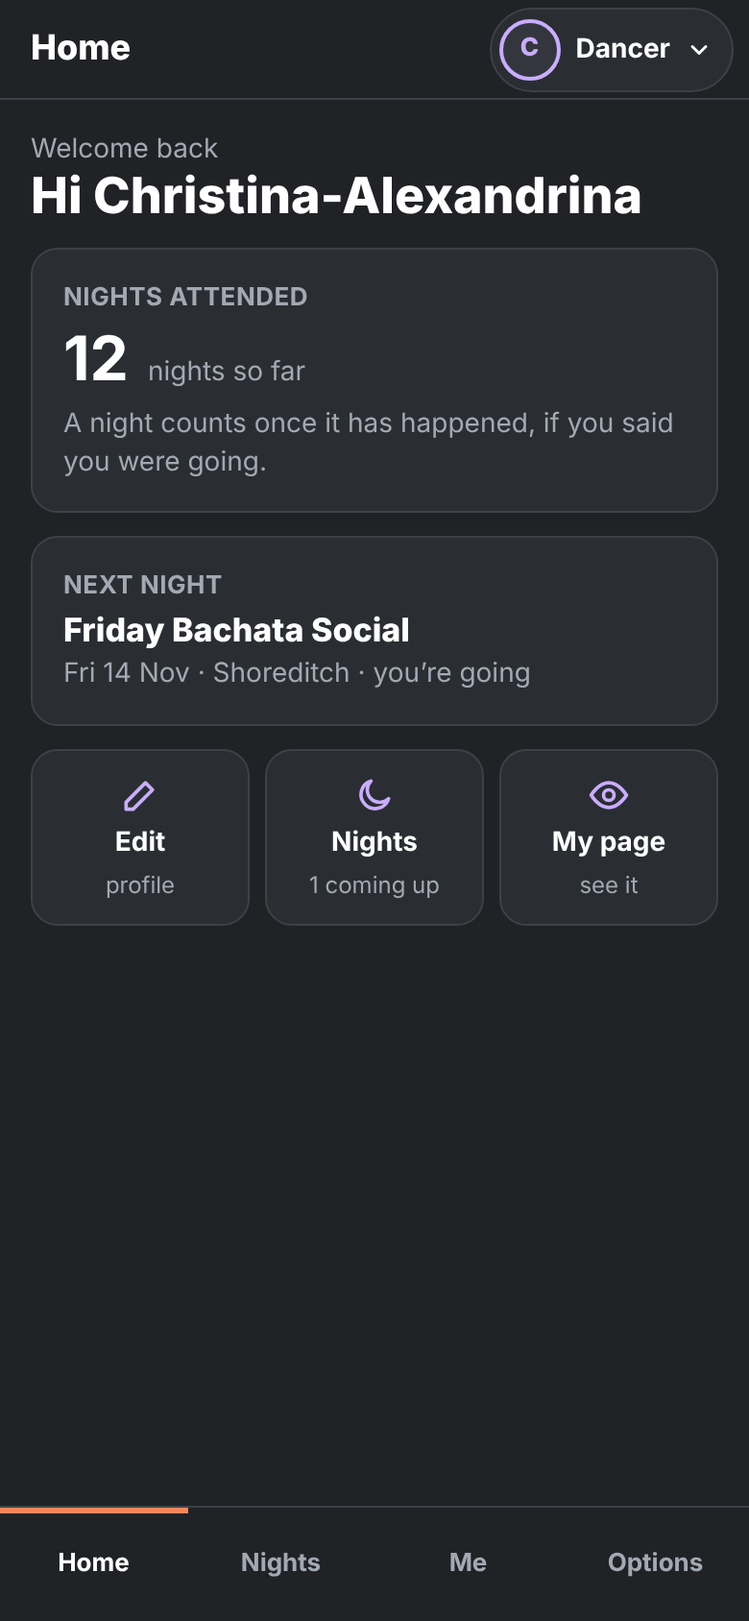
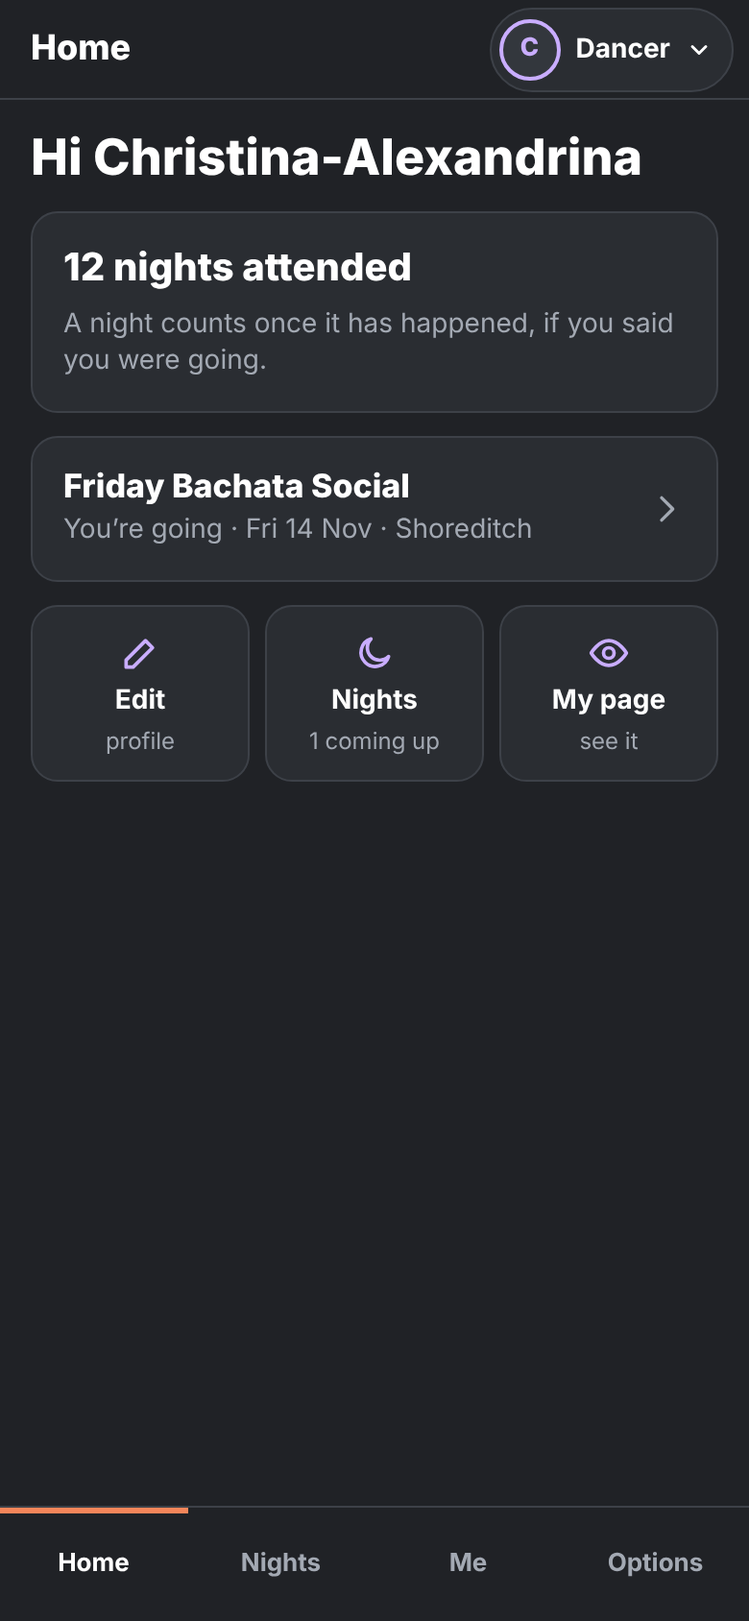
docs(dancer-dash): option B critique fixes 1-8, #account frame, re-shot 9 frames (admin #1545) [skip preview]
Claude-Session: https://claude.ai/code/session_01WoGkiCmT2uffcLhtXA41Yb

diff --git a/docs/design/dancer-dashboard/option-b-polished.html b/docs/design/dancer-dashboard/option-b-polished.html
@@ -1,7 +1,7 @@
 <!doctype html><html lang="en"><head><meta charset="utf-8"><meta name="viewport" content="width=device-width,initial-scale=1"><title>Dancer dashboard B polished</title>
-<!-- Design only (admin #1537). Tokens = src/modules/dancer-app/theme/dancer.css. Open with #new #partial #saveOff #complete #completeEmpty #unclaimed #switch #addProfile for one 390x844 frame. ASCII + entities only. -->
+<!-- Design only (admin #1537, critique fixes admin #1545). Tokens = src/modules/dancer-app/theme/dancer.css. Open with #new #partial #saveOff #complete #completeEmpty #unclaimed #switch #addProfile #account for one 390x844 frame. ASCII + entities only. No text characters as icons: every icon is an inline SVG on the 2px stroke set. Dashed border = disabled or placeholder ONLY. -->
 <style>
-:root{--bg:#202226;--sf:#2A2D32;--sf2:#33373D;--tx:#FFFFFF;--mu:#A3A9B3;--ac:#F5865A;--onac:#1D0A03;--bd:#3D4148;--pl:#C9ADFF;--ok:#7BE0A0;--onok:#06210F;--warn:#FFCF66;
+:root{--bg:#202226;--sf:#2A2D32;--sf2:#33373D;--tx:#FFFFFF;--mu:#A3A9B3;--ac:#F5865A;--onac:#1D0A03;--bd:#3D4148;--pl:#C9ADFF;--ok:#7BE0A0;--warn:#FFCF66;--teal:#4FE0CF;
 --r:14px;--tap:44px;--hd:52px;--tabs:60px;--gap:12px;--pad:16px}
 *{box-sizing:border-box}html,body{margin:0;background:#111;color:var(--tx);font:16px/1.4 system-ui,-apple-system,"Segoe UI",Roboto,sans-serif}
 body{display:flex;flex-wrap:wrap;gap:24px;padding:24px;justify-content:center}
@@ -10,33 +10,43 @@ body.one{padding:0;gap:0;display:block;background:var(--bg)}
 .cap{width:390px;text-align:center;color:#C8CCD2;font-size:13px;margin-bottom:6px}body.one .cap{display:none}
 .phone{width:390px;height:844px;background:var(--bg);position:relative;overflow:hidden;display:flex;flex-direction:column}
 a,button{font:inherit;color:inherit}
+svg{fill:none;stroke:currentColor;stroke-width:2;stroke-linecap:round;stroke-linejoin:round}
 /* header */
-.hd{height:var(--hd);flex:none;display:flex;align-items:center;gap:8px;padding:0 8px 0 var(--pad);border-bottom:1px solid var(--bd)}
+.hd{height:var(--hd);flex:none;display:flex;align-items:center;gap:4px;padding:0 8px 0 var(--pad);border-bottom:1px solid var(--bd)}
+.hd.bk{padding-left:4px}
 .hd h1{margin:0;font-size:18px;font-weight:800;flex:1}
+.ib{display:flex;align-items:center;justify-content:center;width:var(--tap);height:var(--tap);flex:none;background:none;border:0;border-radius:22px;text-decoration:none;cursor:pointer;padding:0}
+.ib svg{width:24px;height:24px}
 .me{display:flex;align-items:center;gap:8px;min-height:var(--tap);min-width:var(--tap);padding:0 10px 0 4px;border-radius:22px;border:1px solid var(--bd);background:var(--sf);text-decoration:none;font-size:14px;font-weight:700;cursor:pointer}
 .me.solo{padding:0 4px;border-color:transparent;background:transparent;justify-content:center}
-.me .pic{width:32px;height:32px;border-radius:50%;background:var(--sf2);border:2px solid var(--pl);color:var(--pl);display:flex;align-items:center;justify-content:center;font-size:13px;font-weight:800;flex:none}
-.me svg{width:14px;height:14px;flex:none}
+.pic{width:32px;height:32px;border-radius:50%;background:var(--sf2);border:2px solid var(--pl);color:var(--pl);display:flex;align-items:center;justify-content:center;font-size:13px;font-weight:800;flex:none}
+.pic svg{width:60%;height:60%}
+.me>svg{width:14px;height:14px;flex:none;stroke-width:2.5}
 /* body */
 .sc{flex:1;overflow:hidden;padding:var(--pad);display:grid;gap:var(--gap);align-content:start}
-.hi p{margin:0}.hi .k{font-size:14px;color:var(--mu)}.hi .n{font-size:26px;font-weight:800;line-height:1.15;overflow-wrap:anywhere}
-.card{background:var(--sf);border:1px solid var(--bd);border-radius:var(--r);padding:var(--pad)}
-.card .k{margin:0;font-size:13px;font-weight:700;color:var(--mu);letter-spacing:.02em}
-.card h2{margin:4px 0 0;font-size:20px;font-weight:800;line-height:1.2}
+.hi{margin:0;font-size:26px;font-weight:800;line-height:1.15;overflow-wrap:anywhere}
+.card{background:var(--sf);border:1px solid var(--bd);border-radius:var(--r);padding:var(--pad);display:block;text-decoration:none}
+.card h2{margin:0;font-size:20px;font-weight:800;line-height:1.2}
 .why{margin:8px 0 0;font-size:14px;color:var(--mu)}
 .seg{display:grid;grid-template-columns:repeat(4,1fr);gap:4px;margin:12px 0 0}
 .seg i{height:6px;border-radius:3px;background:var(--sf2)}.seg i.d{background:var(--ok)}.seg i.n{background:var(--ac)}
+.stepcap{margin:6px 0 0;font-size:13px;color:var(--mu)}
 .btn{display:flex;align-items:center;justify-content:center;min-height:48px;margin-top:12px;border-radius:12px;font-weight:800;font-size:16px;background:var(--ac);color:var(--onac);border:0;width:100%;text-decoration:none;cursor:pointer}
 .btn.g{background:transparent;color:var(--tx);border:1px solid var(--bd);margin-top:8px}
+.btn.sm{width:auto;min-height:44px;margin:0;padding:0 14px;font-size:15px}
 .btn[disabled]{background:var(--sf2);color:var(--mu);border:1px dashed var(--bd);cursor:not-allowed}
 .reason{margin:6px 0 0;font-size:13px;color:var(--mu)}
+.tl{display:flex;align-items:center;justify-content:center;min-height:var(--tap);margin-top:4px;font-size:15px;font-weight:700;text-decoration:underline;text-underline-offset:3px}
 .state{display:inline-flex;align-items:center;gap:6px;font-size:12px;font-weight:800;padding:4px 10px;border-radius:99px;background:#3A3220;color:var(--warn)}
-.count{display:flex;align-items:baseline;gap:10px;margin:6px 0 0}.count b{font-size:32px;line-height:1}.count span{font-size:14px;color:var(--mu)}
+/* next-night link card */
+.card.go{display:flex;align-items:center;gap:8px;min-height:var(--tap)}
+.card.go .t{flex:1;min-width:0}.card.go h2{font-size:17px}.card.go .why{margin-top:2px}
+.card.go>svg{width:20px;height:20px;flex:none;color:var(--mu)}
 /* three tiles (density rule: 3 columns) */
 .tiles{display:grid;grid-template-columns:repeat(3,1fr);gap:8px}
 .tile{background:var(--sf);border:1px solid var(--bd);border-radius:var(--r);padding:12px 6px;min-height:92px;text-align:center;display:grid;gap:4px;justify-items:center;align-content:center;font-size:14px;font-weight:700;text-decoration:none}
 .tile svg{width:22px;height:22px;color:var(--pl)}.tile small{font-size:12px;color:var(--mu);font-weight:400;line-height:1.25}
-.note{font-size:13px;color:var(--mu);padding:10px 12px;border:1px dashed var(--bd);border-radius:12px;margin:0}
+.note{font-size:13px;color:var(--mu);margin:0}
 .who{display:flex;gap:12px;align-items:center;margin-top:12px}
 .av{width:52px;height:52px;border-radius:50%;background:var(--sf2);border:2px dashed var(--mu);color:var(--mu);flex:none;display:flex;align-items:center;justify-content:center;font-weight:800;font-size:18px}
 .who p{margin:0}.who .b{font-weight:800}.who .s{font-size:14px;color:var(--mu)}
@@ -44,50 +54,57 @@ a,button{font:inherit;color:inherit}
 .tabs{height:var(--tabs);flex:none;display:grid;grid-template-columns:repeat(4,1fr);border-top:1px solid var(--bd);background:var(--bg)}
 .tabs a{display:flex;align-items:center;justify-content:center;font-size:13px;font-weight:700;color:var(--mu);min-height:var(--tap);text-decoration:none}
 .tabs a[aria-current]{color:var(--tx);box-shadow:inset 0 3px 0 var(--ac)}
-/* sheet */
-.scrim{position:absolute;inset:0;background:rgba(0,0,0,.6);display:flex;flex-direction:column;justify-content:flex-end}
-.sheet{background:var(--bg);border-top:1px solid var(--bd);border-radius:16px 16px 0 0;padding:8px 0 20px}
+/* sheet: the shipped ProfileSwitcher dancer surface (--da-surface, border-top --da-border) */
+.scrim{position:absolute;inset:0;background:rgba(0,0,0,.5);display:flex;flex-direction:column;justify-content:flex-end}
+.sheet{background:var(--sf);border-top:1px solid var(--bd);border-radius:16px 16px 0 0;padding:8px 0 12px}
 .sh{display:flex;align-items:center;justify-content:space-between;padding:0 8px 0 var(--pad)}
+.sh.bk{justify-content:flex-start;gap:4px;padding:0 var(--pad) 0 4px}
 .sh h2{margin:0;font-size:16px;font-weight:800}
 .x{min-height:var(--tap);min-width:var(--tap);background:none;border:0;font-weight:700;font-size:15px;cursor:pointer;padding:0 8px}
 .grp{list-style:none;margin:0;padding:0;border-bottom:1px solid var(--bd)}
-.side{display:flex;align-items:center;gap:12px;min-height:56px;padding:8px var(--pad);text-decoration:none;font-size:16px}
-.side .pic{width:36px;height:36px;border-radius:50%;background:var(--sf2);border:2px solid var(--pl);color:var(--pl);display:flex;align-items:center;justify-content:center;font-weight:800;font-size:14px;flex:none}
-.side .pic.sq{border-radius:10px;border-color:#4FE0CF;color:#4FE0CF}
+.side{display:flex;align-items:center;gap:12px;min-height:56px;padding:8px var(--pad);text-decoration:none;font-size:15px}
+.side .pic{width:36px;height:36px;font-size:14px}
+.side .pic.sq{border-radius:10px;border-color:var(--teal);color:var(--teal)}
 .side .pic.dj{border-color:var(--warn);color:var(--warn)}
 .side .t{flex:1;min-width:0}.side .t b{display:block;white-space:nowrap;overflow:hidden;text-overflow:ellipsis;font-weight:700}
-.side .t small{display:block;font-size:13px;color:var(--mu)}
-.side[aria-current]{background:var(--sf)}
-.side svg{width:20px;height:20px;flex:none}
-.side.add{color:var(--tx);font-weight:700}.side.add .pic{border-style:dashed;border-color:var(--mu);color:var(--tx);background:transparent}
+.side .t small{display:flex;align-items:center;gap:6px;font-size:13px;color:var(--mu)}
+.side>svg{width:20px;height:20px;flex:none}
+.side .ico{width:36px;height:36px;flex:none;display:flex;align-items:center;justify-content:center;color:var(--mu)}
+.side .ico svg{width:22px;height:22px}
+.dot{display:inline-block;width:10px;height:10px;border-radius:50%;border:2px solid currentColor;background:linear-gradient(90deg,currentColor 50%,transparent 50%);flex:none}
 .side.plain{font-weight:700}
 /* edit detail */
-.fld{display:grid;gap:6px;margin-top:12px}.fld label{font-size:14px;font-weight:700}.fld span{display:flex;align-items:center;min-height:48px;padding:0 12px;border-radius:10px;background:var(--sf2);border:1px solid var(--bd);font-size:16px}
+.fld{display:grid;gap:6px;margin-top:12px}.fld label{font-size:14px;font-weight:700}.fld>span{display:flex;align-items:center;min-height:48px;padding:0 12px;border-radius:10px;background:var(--sf2);border:1px solid var(--bd);font-size:16px}
+.photo{display:flex;align-items:center;gap:12px;margin-top:6px}.photo .av{width:48px;height:48px}.photo .av svg{width:26px;height:26px}.photo p{flex:1;margin:0;font-size:15px;color:var(--mu)}
 </style></head><body>
 <svg width="0" height="0" style="position:absolute" aria-hidden="true">
-<symbol id="i-down" viewBox="0 0 24 24"><path d="M6 9l6 6 6-6" fill="none" stroke="currentColor" stroke-width="2.5" stroke-linecap="round" stroke-linejoin="round"/></symbol>
-<symbol id="i-check" viewBox="0 0 24 24"><path d="M5 12l5 5 9-10" fill="none" stroke="currentColor" stroke-width="2.5" stroke-linecap="round" stroke-linejoin="round"/></symbol>
-<symbol id="i-edit" viewBox="0 0 24 24"><path d="M4 20h4L19 9l-4-4L4 16v4z" fill="none" stroke="currentColor" stroke-width="2" stroke-linejoin="round"/></symbol>
-<symbol id="i-moon" viewBox="0 0 24 24"><path d="M20 14A8 8 0 1 1 10 4a6 6 0 0 0 10 10z" fill="none" stroke="currentColor" stroke-width="2" stroke-linejoin="round"/></symbol>
-<symbol id="i-eye" viewBox="0 0 24 24"><path d="M2 12s4-7 10-7 10 7 10 7-4 7-10 7S2 12 2 12z" fill="none" stroke="currentColor" stroke-width="2"/><circle cx="12" cy="12" r="3" fill="none" stroke="currentColor" stroke-width="2"/></symbol>
-<symbol id="i-msg" viewBox="0 0 24 24"><path d="M4 5h16v11H9l-5 4V5z" fill="none" stroke="currentColor" stroke-width="2" stroke-linejoin="round"/></symbol>
-<symbol id="i-gear" viewBox="0 0 24 24"><circle cx="12" cy="12" r="3.5" fill="none" stroke="currentColor" stroke-width="2"/><path d="M12 2v3M12 19v3M2 12h3M19 12h3M5 5l2 2M17 17l2 2M5 19l2-2M17 7l2-2" stroke="currentColor" stroke-width="2" stroke-linecap="round"/></symbol>
+<symbol id="i-down" viewBox="0 0 24 24"><path d="M6 9l6 6 6-6"/></symbol>
+<symbol id="i-back" viewBox="0 0 24 24"><path d="M15 5l-7 7 7 7"/></symbol>
+<symbol id="i-fwd" viewBox="0 0 24 24"><path d="M9 5l7 7-7 7"/></symbol>
+<symbol id="i-check" viewBox="0 0 24 24"><path d="M5 12l5 5 9-10"/></symbol>
+<symbol id="i-plus" viewBox="0 0 24 24"><path d="M12 5v14M5 12h14"/></symbol>
+<symbol id="i-person" viewBox="0 0 24 24"><circle cx="12" cy="8" r="4"/><path d="M4 21c0-4.4 3.6-7 8-7s8 2.6 8 7"/></symbol>
+<symbol id="i-phones" viewBox="0 0 24 24"><path d="M4 15v-3a8 8 0 0 1 16 0v3"/><rect x="3" y="14" width="4" height="7" rx="1.5"/><rect x="17" y="14" width="4" height="7" rx="1.5"/></symbol>
+<symbol id="i-edit" viewBox="0 0 24 24"><path d="M4 20h4L19 9l-4-4L4 16v4z"/></symbol>
+<symbol id="i-moon" viewBox="0 0 24 24"><path d="M20 14A8 8 0 1 1 10 4a6 6 0 0 0 10 10z"/></symbol>
+<symbol id="i-eye" viewBox="0 0 24 24"><path d="M2 12s4-7 10-7 10 7 10 7-4 7-10 7S2 12 2 12z"/><circle cx="12" cy="12" r="3"/></symbol>
 </svg>
 
-<!-- D1 new account: one side only, so the picture button opens "Your account" (no switch pill) -->
+<!-- D1 new account: one side only, so the picture opens "Your account" (#account). No name yet: person icon in the plum ring. -->
 <section class="shape" id="new"><div class="cap">D1 New account &middot; strength 0 &middot; next_step first_name</div><div class="phone">
-<header class="hd"><h1>Home</h1><a class="me solo" href="#account" aria-label="Your account"><span class="pic">?</span></a></header>
+<header class="hd"><h1>Home</h1><a class="me solo" href="#account" aria-label="Your account"><span class="pic"><svg><use href="#i-person"/></svg></span></a></header>
 <main class="sc">
-<div class="hi"><p class="k">Welcome</p><p class="n">Let&rsquo;s set up your profile</p></div>
-<div class="card"><p class="k">STEP 1 OF 4</p><h2>What should we call you?</h2>
-<div class="seg" aria-label="0 of 4 steps done"><i class="n"></i><i></i><i></i><i></i></div>
+<p class="hi">Let&rsquo;s set up your profile</p>
+<div class="card"><h2>What should we call you?</h2>
+<div class="seg" aria-hidden="true"><i class="n"></i><i></i><i></i><i></i></div>
+<p class="stepcap">Step 1 of 4</p>
 <p class="why">Four quick steps: your name, your city, how you dance, a photo.</p>
 <a class="btn" href="#edit-first_name">Add your first name</a></div>
 <p class="note">Your numbers appear here once your profile is set up and you have been to a night.</p>
 <nav class="tiles" aria-label="Shortcuts">
 <a class="tile" href="#nights"><svg><use href="#i-moon"/></svg>Nights<small>find one near you</small></a>
 <a class="tile" href="#page"><svg><use href="#i-eye"/></svg>My page<small>see how it looks</small></a>
-<a class="tile" href="#options"><svg><use href="#i-gear"/></svg>Options<small>account, help</small></a></nav>
+<a class="tile" href="#saveOff"><svg><use href="#i-edit"/></svg>Edit<small>0 of 4 done</small></a></nav>
 </main>
 <nav class="tabs"><a href="#home" aria-current="page">Home</a><a href="#nights">Nights</a><a href="#me">Me</a><a href="#options">Options</a></nav>
 </div></section>
@@ -96,9 +113,10 @@ a,button{font:inherit;color:inherit}
 <section class="shape" id="partial"><div class="cap">D2 Unfinished &middot; next_step photo &middot; 3 of 4 done</div><div class="phone">
 <header class="hd"><h1>Home</h1><a class="me solo" href="#account" aria-label="Your account"><span class="pic">A</span></a></header>
 <main class="sc">
-<div class="hi"><p class="k">Welcome back</p><p class="n">Hi Ana</p></div>
-<div class="card"><p class="k">STEP 4 OF 4</p><h2>Add your photo</h2>
-<div class="seg" aria-label="3 of 4 steps done"><i class="d"></i><i class="d"></i><i class="d"></i><i class="n"></i></div>
+<p class="hi">Hi Ana</p>
+<div class="card"><h2>Add your photo</h2>
+<div class="seg" aria-hidden="true"><i class="d"></i><i class="d"></i><i class="d"></i><i class="n"></i></div>
+<p class="stepcap">Step 4 of 4</p>
 <p class="why">Name, city and how you dance are done. A photo helps people recognise you at a night.</p>
 <a class="btn" href="#photo">Add your photo</a></div>
 <p class="note">Going to a night? Say so on Nights and it shows here.</p>
@@ -110,14 +128,15 @@ a,button{font:inherit;color:inherit}
 <nav class="tabs"><a href="#home" aria-current="page">Home</a><a href="#nights">Nights</a><a href="#me">Me</a><a href="#options">Options</a></nav>
 </div></section>
 
-<!-- D2 detail: Edit opened, nothing changed: Save is off with its reason and sends nothing -->
+<!-- D2 detail: Edit opened from the "3 of 4 done" tile. All four steps live here (photo included). Nothing changed: Save is off with its reason and sends nothing. -->
 <section class="shape" id="saveOff"><div class="cap">D2 detail &middot; Edit untouched: Save off, sends nothing</div><div class="phone">
-<header class="hd"><h1>Edit profile</h1><a class="me solo" href="#account" aria-label="Your account"><span class="pic">A</span></a></header>
+<header class="hd bk"><a class="ib" href="#partial" aria-label="Back"><svg><use href="#i-back"/></svg></a><h1>Edit profile</h1><a class="me solo" href="#account" aria-label="Your account"><span class="pic">A</span></a></header>
 <main class="sc">
-<div class="card"><p class="k">ABOUT YOU</p>
-<div class="fld"><label>First name</label><span>Ana</span></div>
+<div class="card">
+<div class="fld" style="margin-top:0"><label>First name</label><span>Ana</span></div>
 <div class="fld"><label>City</label><span>London</span></div>
 <div class="fld"><label>How you dance</label><span>Follower</span></div>
+<div class="fld"><label>Photo</label><div class="photo"><span class="av"><svg><use href="#i-person"/></svg></span><p>No photo yet</p><a class="btn g sm" href="#photo">Add photo</a></div></div>
 <button class="btn" disabled aria-describedby="save-reason">Save changes</button>
 <p class="reason" id="save-reason">Change something to save. Nothing is sent until you do.</p></div>
 </main>
@@ -128,10 +147,10 @@ a,button{font:inherit;color:inherit}
 <section class="shape" id="complete"><div class="cap">D3 Complete &middot; 12 nights &middot; 21-char first name (prod max)</div><div class="phone">
 <header class="hd"><h1>Home</h1><a class="me" href="#switch" aria-label="Switch profile, now Dancer"><span class="pic">C</span>Dancer<svg><use href="#i-down"/></svg></a></header>
 <main class="sc">
-<div class="hi"><p class="k">Welcome back</p><p class="n">Hi Christina-Alexandrina</p></div>
-<div class="card"><p class="k">NIGHTS ATTENDED</p><div class="count"><b>12</b><span>nights so far</span></div>
+<p class="hi">Hi Christina-Alexandrina</p>
+<div class="card"><h2>12 nights attended</h2>
 <p class="why">A night counts once it has happened, if you said you were going.</p></div>
-<div class="card"><p class="k">NEXT NIGHT</p><h2 style="font-size:17px">Friday Bachata Social</h2><p class="why" style="margin-top:2px">Fri 14 Nov &middot; Shoreditch &middot; you&rsquo;re going</p></div>
+<a class="card go" href="#event"><span class="t"><h2>Friday Bachata Social</h2><p class="why">You&rsquo;re going &middot; Fri 14 Nov &middot; Shoreditch</p></span><svg><use href="#i-fwd"/></svg></a>
 <nav class="tiles" aria-label="Shortcuts">
 <a class="tile" href="#edit"><svg><use href="#i-edit"/></svg>Edit<small>profile</small></a>
 <a class="tile" href="#nights"><svg><use href="#i-moon"/></svg>Nights<small>1 coming up</small></a>
@@ -144,9 +163,9 @@ a,button{font:inherit;color:inherit}
 <section class="shape" id="completeEmpty"><div class="cap">D3 Complete &middot; 0 nights &middot; nothing going</div><div class="phone">
 <header class="hd"><h1>Home</h1><a class="me solo" href="#account" aria-label="Your account"><span class="pic">L</span></a></header>
 <main class="sc">
-<div class="hi"><p class="k">Welcome back</p><p class="n">Hi Laura</p></div>
-<div class="card"><p class="k">YOUR PROFILE IS COMPLETE</p><h2>Find your first night</h2>
-<p class="why">Say you&rsquo;re going to a night. After it happens it counts as a night attended here.</p>
+<p class="hi">Hi Laura</p>
+<div class="card"><h2>Your profile is complete.</h2>
+<p class="why">Next, find your first night. Say you&rsquo;re going; after it happens it counts as a night attended here.</p>
 <a class="btn" href="#nights">Find a night</a></div>
 <nav class="tiles" aria-label="Shortcuts">
 <a class="tile" href="#edit"><svg><use href="#i-edit"/></svg>Edit<small>profile</small></a>
@@ -156,59 +175,78 @@ a,button{font:inherit;color:inherit}
 <nav class="tabs"><a href="#home" aria-current="page">Home</a><a href="#nights">Nights</a><a href="#me">Me</a><a href="#options">Options</a></nav>
 </div></section>
 
-<!-- D4 unclaimed match: claim is automatic today (G-2). No live Claim button: a labelled state + the action that exists. -->
+<!-- D4 unclaimed match: claim is automatic today (G-2, open owner question). One live action; "Not me" is a text link. -->
 <section class="shape" id="unclaimed"><div class="cap">D4 Unclaimed match &middot; auto-claim did not fire (G-2)</div><div class="phone">
-<header class="hd"><h1>Home</h1><a class="me solo" href="#account" aria-label="Your account"><span class="pic">?</span></a></header>
+<header class="hd"><h1>Home</h1><a class="me solo" href="#account" aria-label="Your account"><span class="pic"><svg><use href="#i-person"/></svg></span></a></header>
 <main class="sc">
-<div class="hi"><p class="k">Welcome</p><p class="n">This page may be yours</p></div>
+<p class="hi">This page may be yours</p>
 <div class="card"><span class="state">Needs a check from us</span>
 <div class="who"><span class="av">M</span><div><p class="b">Marco Rossi</p><p class="s">Leader &middot; London &middot; made by our team</p></div></div>
 <p class="why">We could not link it to your sign-in on our own. Message us and we will link it for you.</p>
 <a class="btn" href="#help">Message us to claim it</a>
-<button class="btn g" disabled aria-describedby="claim-reason">Claim this page</button>
-<p class="reason" id="claim-reason">Claiming with one tap is not ready yet. Use the message button above.</p>
-<a class="btn g" href="#edit-first_name">Not me, start my own</a></div>
+<a class="tl" href="#edit-first_name">Not me, start my own</a></div>
 <nav class="tiles" aria-label="Shortcuts">
 <a class="tile" href="#look"><svg><use href="#i-eye"/></svg>Look<small>at that page</small></a>
 <a class="tile" href="#nights"><svg><use href="#i-moon"/></svg>Nights<small>find one</small></a>
-<a class="tile" href="#help"><svg><use href="#i-msg"/></svg>Message<small>us</small></a></nav>
+<a class="tile" href="#page"><svg><use href="#i-person"/></svg>My page<small>see how it looks</small></a></nav>
 </main>
 <nav class="tabs"><a href="#home" aria-current="page">Home</a><a href="#nights">Nights</a><a href="#me">Me</a><a href="#options">Options</a></nav>
 </div></section>
 
-<!-- Switch sheet open (over D3) -->
-<section class="shape" id="switch"><div class="cap">Switch open &middot; Dancer / DJ area / Organiser &middot; + Add a profile</div><div class="phone">
+<!-- Switch sheet open (over D3): shipped ProfileSwitcher order. Sides (organisers first, tick on current), then the areas group
+     (teacher / DJ rows with status dot + words, then "Your areas"), then + Add a profile, Account settings, Sign out. -->
+<section class="shape" id="switch"><div class="cap">Switch open &middot; Organiser, Dancer &middot; Your areas: DJ &middot; + Add a profile</div><div class="phone">
 <header class="hd"><h1>Home</h1><a class="me" href="#switch" aria-label="Switch profile, now Dancer"><span class="pic">L</span>Dancer<svg><use href="#i-down"/></svg></a></header>
 <main class="sc">
-<div class="hi"><p class="k">Welcome back</p><p class="n">Hi Laura</p></div>
-<div class="card"><p class="k">NIGHTS ATTENDED</p><div class="count"><b>12</b><span>nights so far</span></div></div>
+<p class="hi">Hi Laura</p>
+<div class="card"><h2>12 nights attended</h2></div>
 </main>
 <nav class="tabs"><a href="#home" aria-current="page">Home</a><a href="#nights">Nights</a><a href="#me">Me</a><a href="#options">Options</a></nav>
 <div class="scrim"><div class="sheet" role="dialog" aria-labelledby="sw-t">
 <div class="sh"><h2 id="sw-t">Switch profile</h2><button class="x">Close</button></div>
 <ul class="grp">
-<li><a class="side" href="#complete" aria-current="true"><span class="pic">L</span><span class="t"><b>Laura</b><small>Dancer &middot; you are here</small></span><svg aria-label="Current profile" style="color:var(--ok)"><use href="#i-check"/></svg></a></li>
-<li><a class="side" href="#org"><span class="pic sq">E</span><span class="t"><b>East London Bachata Social Club Nights</b><small>Organiser &middot; owner</small></span></a></li>
-<li><a class="side" href="#dj"><span class="pic dj">DJ</span><span class="t"><b>DJ Laura</b><small>DJ area &middot; finish your DJ page</small></span></a></li>
-<li><a class="side add" href="#addProfile"><span class="pic">+</span><span class="t"><b>Add a profile</b><small>Run events, teach or DJ</small></span></a></li>
+<li><a class="side" href="#org"><span class="pic sq">E</span><span class="t"><b>East London Bachata Social Club Nights</b><small>Organiser</small></span></a></li>
+<li><a class="side" href="#complete" aria-current="true"><span class="pic">L</span><span class="t"><b>Laura</b><small>Dancer</small></span><svg aria-label="Current profile" style="color:var(--ok)"><use href="#i-check"/></svg></a></li>
 </ul>
+<div class="grp">
+<ul style="list-style:none;margin:0;padding:0" aria-label="Your areas"><li><a class="side" href="#dj"><span class="ico"><svg><use href="#i-phones"/></svg></span><span class="t"><b>DJ</b><small><span class="dot" aria-hidden="true"></span>Not finished</small></span></a></li></ul>
+<a class="side plain" href="#areas">Your areas</a>
+</div>
+<a class="side plain" href="#addProfile"><span class="ico"><svg><use href="#i-plus"/></svg></span>Add a profile</a>
 <a class="side plain" href="#settings">Account settings</a>
 <a class="side plain" href="#signout">Sign out</a>
 </div></div>
 </div></section>
 
-<!-- + Add a profile: only paths that exist today (G-8) -->
+<!-- + Add a profile: only paths that exist today (G-8). Back = 44px chevron at left. -->
 <section class="shape" id="addProfile"><div class="cap">+ Add a profile &middot; only live paths (G-8)</div><div class="phone">
 <header class="hd"><h1>Home</h1><a class="me" href="#switch" aria-label="Switch profile, now Dancer"><span class="pic">L</span>Dancer<svg><use href="#i-down"/></svg></a></header>
-<main class="sc"><div class="hi"><p class="k">Welcome back</p><p class="n">Hi Laura</p></div></main>
+<main class="sc"><p class="hi">Hi Laura</p></main>
 <nav class="tabs"><a href="#home" aria-current="page">Home</a><a href="#nights">Nights</a><a href="#me">Me</a><a href="#options">Options</a></nav>
 <div class="scrim"><div class="sheet" role="dialog" aria-labelledby="add-t">
-<div class="sh"><h2 id="add-t">Add a profile</h2><button class="x">Back</button></div>
+<div class="sh bk"><a class="ib" href="#switch" aria-label="Back"><svg><use href="#i-back"/></svg></a><h2 id="add-t">Add a profile</h2></div>
 <ul class="grp">
-<li><a class="side" href="#organiser-new"><span class="pic sq">+</span><span class="t"><b>Run events? Become an organiser</b><small>During the beta, new organiser pages are approved by hand.</small></span></a></li>
-<li><a class="side" href="#help"><span class="pic dj">+</span><span class="t"><b>Teach or DJ? Message us</b><small>We set up teacher and DJ pages with you for now.</small></span></a></li>
+<li><a class="side" href="#organiser-new"><span class="pic sq"><svg><use href="#i-plus"/></svg></span><span class="t"><b>Run events? Become an organiser</b><small>During the beta, new organiser pages are approved by hand.</small></span></a></li>
+<li><a class="side" href="#help"><span class="pic dj"><svg><use href="#i-plus"/></svg></span><span class="t"><b>Teach or DJ? Message us</b><small>We set up teacher and DJ pages with you for now.</small></span></a></li>
 </ul>
 <p class="note" style="margin:12px 16px 0">You keep one sign-in. Switch any time by tapping your picture, top right.</p>
+</div></div>
+</div></section>
+
+<!-- One-profile account sheet (over D2): the shipped single-side sheet. Title "Your account", no switching words. -->
+<section class="shape" id="account"><div class="cap">Your account &middot; one side &middot; no switch words</div><div class="phone">
+<header class="hd"><h1>Home</h1><a class="me solo" href="#account" aria-label="Your account"><span class="pic">A</span></a></header>
+<main class="sc"><p class="hi">Hi Ana</p>
+<div class="card"><h2>Add your photo</h2></div></main>
+<nav class="tabs"><a href="#home" aria-current="page">Home</a><a href="#nights">Nights</a><a href="#me">Me</a><a href="#options">Options</a></nav>
+<div class="scrim"><div class="sheet" role="dialog" aria-labelledby="ac-t">
+<div class="sh"><h2 id="ac-t">Your account</h2><button class="x">Close</button></div>
+<ul class="grp">
+<li><a class="side" href="#partial" aria-current="true"><span class="pic">A</span><span class="t"><b>Ana</b><small>Dancer</small></span><svg aria-label="Current profile" style="color:var(--ok)"><use href="#i-check"/></svg></a></li>
+</ul>
+<a class="side plain" href="#addProfile"><span class="ico"><svg><use href="#i-plus"/></svg></span>Add a profile</a>
+<a class="side plain" href="#settings">Account settings</a>
+<a class="side plain" href="#signout">Sign out</a>
 </div></div>
 </div></section>
 

diff --git a/docs/design/dancer-dashboard/polish.md b/docs/design/dancer-dashboard/polish.md
@@ -1,8 +1,8 @@
 # Dancer dashboard: option B polish (design record)
 
 Admin #1537, parent #1531. Docs / design only, no app code, no DB writes.
-Screens: `option-b-polished.html` (open with `#new`, `#partial`, `#saveOff`, `#complete`, `#completeEmpty`, `#unclaimed`, `#switch`, `#addProfile`
-for one 390x844 frame; no hash shows all eight). Shots: `shots/b-polished-<shape>.png` (390x844 at 2x).
+Screens: `option-b-polished.html` (open with `#new`, `#partial`, `#saveOff`, `#complete`, `#completeEmpty`, `#unclaimed`, `#switch`, `#addProfile`, `#account`
+for one 390x844 frame; no hash shows all nine). Critique fixes (admin #1545): see "Critique round" at the end; where it conflicts with the decisions below, the critique round wins. Shots: `shots/b-polished-<shape>.png` (390x844 at 2x).
 Base: `option-b.html` on `claude/profile-dash-dancer-designs` (PR #1561, not on main yet, so this branch does not depend on it) + the owner-picked switch mock
 (`docs/briefs/dash-switch-mock.md` on the brief branch). Inventory first: `INVENTORY-polish.md` (separate name: PR #1561 adds its own INVENTORY.md) (72 items, 69 covered).
 
@@ -70,3 +70,42 @@ Type: greeting 26/800, card title 20/800, label 13/700 caps, body 16, secondary 
 
 Inventory items covered 69 / 72 (D 39, R 30). Uncovered: #27 erase_requested_at (always null), #35 views tile (removed by contract), #55 legacy EditProfile (superseded).
 Owner calls: G-2 (claim click), G-7 (DJ side), G-8 (add-a-profile destinations and the "Teach or DJ? Message us" copy).
+
+## Critique round (admin #1545, all 8 fixes applied, 2026-11-12)
+
+| # | Fix | What changed in `option-b-polished.html` |
+|---|---|---|
+| 1 | One-profile account sheet; no "?" | New `#account` frame: title "Your account" + Close, one Dancer row with tick, Add a profile, Account settings, Sign out; no switching words. Header picture with no name (`#new`, `#unclaimed`) is an SVG person in the plum ring. |
+| 2 | Switch sheet = shipped `ProfileSwitcher.tsx` | Order: sides (organisers first, `switcherItems`), tick on current; then the areas group (DJ row: plain SVG icon, "DJ", status dot + "Not finished", as `SwitcherAreas` + `StatusDot`) and the "Your areas" link; then Add a profile, Account settings, Sign out. Sheet surface `--da-surface` + `--da-border` top (the shipped dancer sheet). Add-a-profile Back = 44px chevron at LEFT. |
+| 3 | Edit "3 of 4 done" with no photo field | `#saveOff` gains a Photo row: placeholder + "No photo yet" + ghost "Add photo" (all four `REQUIRED_STEPS` now live on Edit). 44px back chevron at left of the Edit header. Save stays off with its reason. |
+| 4 | No kicker labels | Welcome lines gone; "STEP N OF 4" is now the caption "Step N of 4" under the segment bar; `#complete` card heading "12 nights attended"; next-night heading = event name, "You're going &middot; Fri 14 Nov &middot; Shoreditch" under it; ABOUT YOU gone; `#completeEmpty` heading "Your profile is complete." |
+| 5 | `#unclaimed` too busy | Disabled Claim + reason removed (G-2 stays an open owner question); "Message us to claim it" is the one action; "Not me, start my own" is a 44px text link; Message tile replaced by My page. |
+| 6 | Next night is a link | Whole card is an `<a>` to the event, right chevron, 74px tall. |
+| 7 | No text characters as icons | Authored SVG `i-plus`, `i-person`, `i-back`, `i-fwd`, `i-phones` on the same 2px stroke set; "+" / "?" / "DJ" glyphs gone. Ring letters are single initials, as `SideAvatar` -> `PersonAvatar` draws them. |
+| 8 | Dashed = disabled / placeholder only | `.note` is plain muted text, no border; Add a profile icon is solid; dashed survives only on disabled Save and the placeholder avatars (Marco, no-photo). `#new` Options tile (duplicated the tab) replaced by Edit "0 of 4 done". |
+
+Kept: step-of-4 segment bar; numbers never headline when empty; Save-off on Edit; pill only with 2+ profiles.
+
+### Deliberate deviations from shipped code (owner calls)
+
+- **OC-1 Pill with 2+ profiles.** Shipped `ProfileSwitcher` button is a bare 44x44 picture for everyone. The design keeps "picture + Dancer + chevron" when there are 2+ sides (brief: keep). Needs a code change if adopted.
+- **OC-2 "Add a profile" row in the sheet.** Not in shipped `ProfileSwitcher` (shipped has "Your areas" for adding teacher / DJ). Drawn between the areas group and Account settings, in both the switch and the one-profile sheet, per brief fix 1-2.
+- **OC-3 Plum ring on the no-photo picture.** Shipped `PersonAvatar` draws a filled `--da-avatar` disc (initial or `UserRound` glyph), no ring. The design keeps the plum ring (brief fix 1) and an SVG person in it.
+- **OC-4 No-name sheet row label.** Not drawn: shipped `sideTitle` falls back to `DANCER_NAME_PLACEHOLDER`; the one-profile frame shows a named dancer (Ana).
+- **OC-5 Sign-out confirm step.** Shipped Sign out asks first ("Sign out?" + Cancel / Yes, sign out); not drawn as its own frame (unchanged behaviour).
+- G-2 (click-claim) remains open; no Claim control is drawn at all now.
+
+### Checks re-run (2026-11-12, Playwright Chromium, 390x844, `shots/check-polish.cjs`, 9 frames)
+
+| Check | Result |
+|---|---|
+| Tap targets >= 44x44 | 0 under, 85 targets |
+| Text contrast >= 4.5:1 | 0 under; min 5.06:1 |
+| Sideways scroll | scrollWidth 390 in all 9 |
+| Clipping / past x=390 / cut by tab bar | 0 / 0 / 0 |
+| Disabled has a reason | 1 disabled (Save), with reason |
+| NEW dashed border only on `[disabled]` or `.av` placeholder | 0 violations |
+| NEW no text glyph in `.pic` / `.ico` / `.av` except one initial | 0 violations |
+| NEW no kicker (caps line or label element directly above a heading) | 0 violations |
+| Canary: the three NEW checks against the pre-fix HTML | caught: dashed notes + dashed add-pic, "?" / "+" / "DJ" glyphs, STEP N OF 4 / ABOUT YOU / NIGHTS ATTENDED / NEXT NIGHT / YOUR PROFILE IS COMPLETE |
+| Empty states (by hand) | D1 note, D2 note, `#completeEmpty` card + Find a night, Nights tiles "find one / none coming up", D4 Message us |

diff --git a/docs/design/dancer-dashboard/HANDOVER-b-fixes.md b/docs/design/dancer-dashboard/HANDOVER-b-fixes.md
@@ -1,0 +1,22 @@
+# Handover: dancer dashboard option B, critique fixes (admin #1545, parent #1531, ticket dt_f2df9afadd53)
+
+Branch `claude/profile-dash-dancer-b-fixes`, built on `claude/profile-dash-design-polish` (b35bfc0, fast-forward from main @ cdbf2c4). Docs / design only.
+
+## Done
+- All 8 critique fixes applied to `option-b-polished.html`; new `#account` frame (9 frames total).
+- `polish.md`: "Critique round" table, owner calls OC-1..OC-5, checks re-run.
+- `shots/check-polish.cjs`: + account frame, + three checks (dashed only on disabled/placeholder, no text-glyph icons, no kickers); canary-tested against the pre-fix HTML.
+- `shots/b-polished-*.png`: 9 frames re-shot at 390x844 (2x).
+
+## Left / next steps
+- Owner calls OC-1..OC-5 and G-2 (see polish.md).
+- This branch contains the polish commit (b35bfc0); if the polish branch gets its own PR, merge that first or close it in favour of this one.
+
+## Verified
+- Playwright 390x844, 9 frames: 0 taps under 44, min contrast 5.06:1, scrollWidth 390, 0 clipped, 0 under tab bar, 0 dashed-live, 0 glyph icons, 0 kickers.
+- Shipped code re-read for fix 2/7: ProfileSwitcher.tsx, SwitcherAreas.tsx, StatusDot.tsx, SideAvatar.tsx, PersonAvatar.tsx, accountRouting.ts switcherItems, areaStatus.ts.
+- `npm run check:mojibake`: see PR.
+
+## Not verified
+- No new prod survey this round (no data-shape change; prior round's counts stand: 183 profiles, 14 claimed, longest first name 21).
+- No real phone; no owner copy review; no app code so no tsc / unit / e2e relevance.
